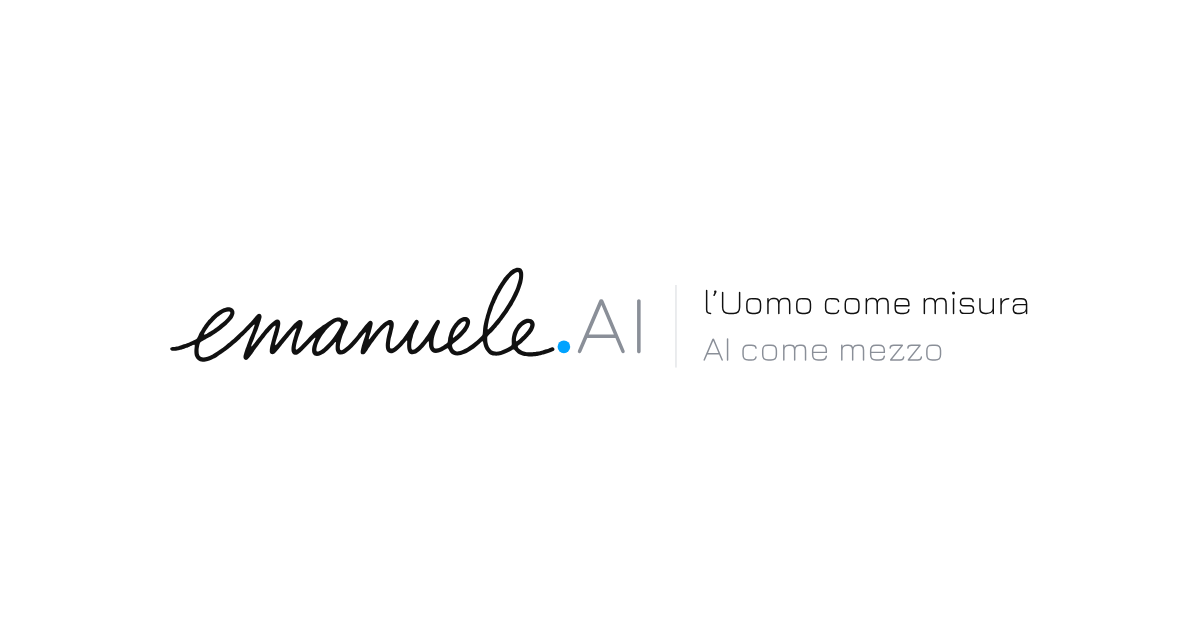
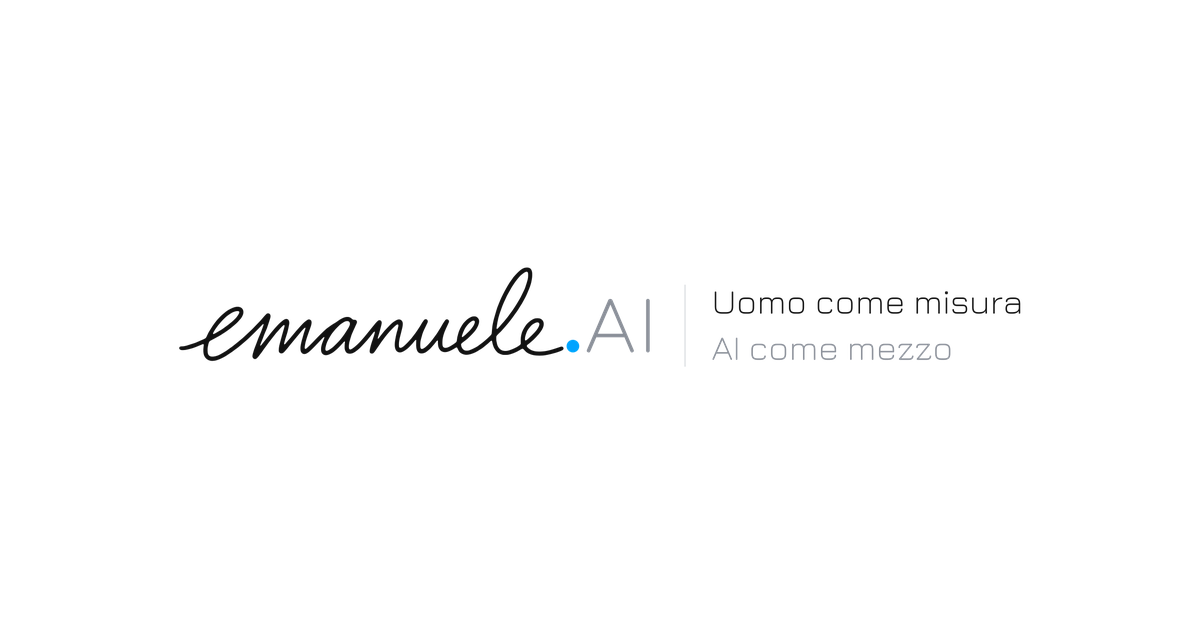
Payoff: «Uomo come misura» (U maiuscola, senza articolo); composizione C v5, anteprima social
Claude-Session: https://claude.ai/code/session_01Jb7UYTL7gXN3SVCjb1EF9d

Changed region(s): [[0.1542, 0.4222, 0.555, 0.573], [0.5858, 0.4524, 0.8633, 0.5127], [0.5858, 0.5429, 0.8017, 0.573]]

diff --git a/index.html b/index.html
@@ -3,7 +3,7 @@
 <head>
 <meta charset="utf-8">
 <meta name="viewport" content="width=device-width, initial-scale=1, viewport-fit=cover">
-<title>Emanuele AI · l’Uomo come misura, AI come mezzo</title>
+<title>Emanuele AI · Uomo come misura, AI come mezzo</title>
 <meta name="description" content="Imparare a guidare l'AI nella vita e nel lavoro, con un metodo a misura d'uomo. E un ambiente pronto per lavorare in team con l'AI nella tua azienda.">
 <link rel="canonical" href="https://emanuele.ai/">
 <link rel="icon" href="/favicon.svg" type="image/svg+xml">
@@ -192,9 +192,9 @@ footer small { color: var(--machine); font-size: 14px; }
     <div class="wrap">
       <h1>Il motore più potente ce l'hai già: <span class="mind">la tua mente</span><span class="dot">.</span></h1>
       <p class="lede">L'AI può moltiplicarne la forza, ma solo se impari a guidarla. E per guidarla bisogna prima conoscere il motore che hai.</p>
-      <div class="payoff" aria-label="l’Uomo come misura, AI come mezzo">
+      <div class="payoff" aria-label="Uomo come misura, AI come mezzo">
         <span class="rule" aria-hidden="true"></span>
-        <div><div class="h">l’Uomo come misura</div><div class="m">AI come mezzo</div></div>
+        <div><div class="h">Uomo come misura</div><div class="m">AI come mezzo</div></div>
       </div>
     </div>
   </section>
@@ -340,7 +340,7 @@ footer small { color: var(--machine); font-size: 14px; }
 
 <footer>
   <div class="wrap">
-    <img src="/brand/composizione.svg" alt="emanuele.AI · l’Uomo come misura, AI come mezzo">
+    <img src="/brand/composizione.svg" alt="emanuele.AI · Uomo come misura, AI come mezzo">
     <small>emanuele.ai · <a href="/privacy.html">Privacy</a></small>
   </div>
 </footer>
